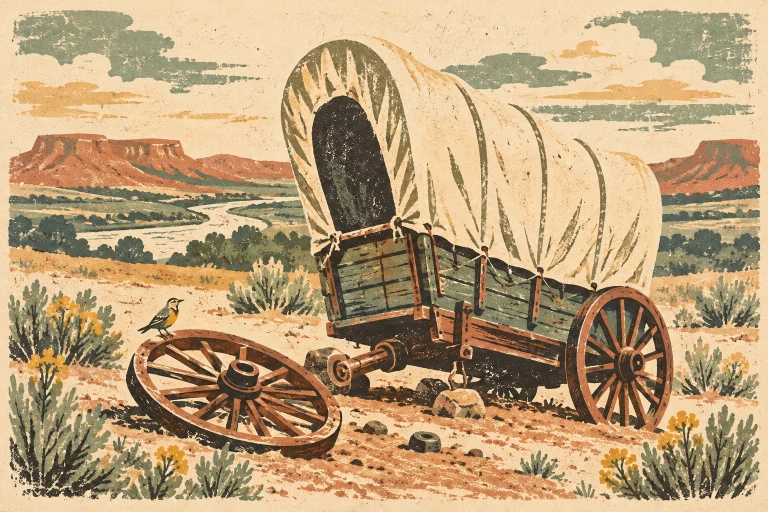
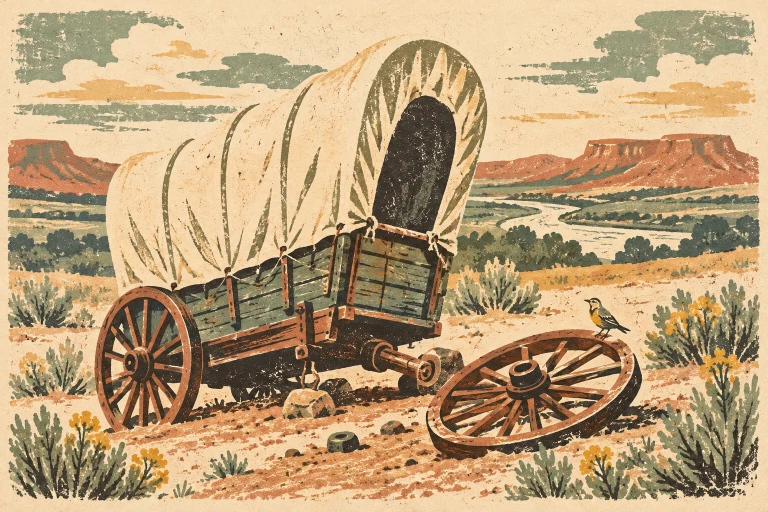
Add distinct journey, calamity, river and memorial artwork

diff --git a/docs/calamity-art-prompts.md b/docs/calamity-art-prompts.md
@@ -1,0 +1,44 @@
+# Calamity result artwork
+
+Generated with built-in imagegen using calamity.webp as a style-only reference. Originals remain in the thread’s generated_images directory; project assets are 900×600 WebP. The six existing wagon calamities keep their specific artwork. All ten personal/event calamities below now have dedicated result artwork, also used in active personal-condition details. The generic broken-wheel image is reserved for unrevealed calamity trail cards.
+
+## assets/calamity-dysentery.webp
+
+Original standalone landscape 3:2 illustration for an Oregon Trail card game. Use reference for STYLE ONLY, not composition. Flat vintage linocut/distressed screenprint on cream paper, muted sage, ochre, terracotta and charcoal olive inks, fine grain and ink dropout. Clear simple focal subject readable as a small thumbnail, soothing restrained palette. No text, letters, frame, watermark, wheel damage or gore. Distinct composition, not a wagon panorama. Any traveller or travelling team faces RIGHT. DYSENTERY: exhausted pioneer crouched in right-facing profile, wrapped in a blanket beside a small rough wooden prairie outhouse with crescent opening. One hand presses their abdomen, a tin water cup sits on the earth. Outhouse fills right half, distressed traveller left foreground. Clearly severe intestinal illness; non-graphic, no bodily fluids.
+
+## assets/calamity-cholera.webp
+
+Original standalone landscape 3:2 illustration for an Oregon Trail card game. Use reference for STYLE ONLY, not composition. Flat vintage linocut/distressed screenprint on cream paper, muted sage, ochre, terracotta and charcoal olive inks, fine grain and ink dropout. Clear simple focal subject readable as a small thumbnail, soothing restrained palette. No text, letters, frame, watermark, wheel damage or gore. Distinct composition, not a wagon panorama. Any traveller or travelling team faces RIGHT. CHOLERA: high close overhead angle on a weak traveller sitting on a bedroll, right-facing silhouette bent over a plain wash basin with a medicine bottle beside it. Their hand grips the basin rim, a water bucket behind. Dry dusty camp. Suggest sudden debilitating sickness without visible vomit or bodily fluids. Basin and exhausted posture dominate.
+
+## assets/calamity-measles.webp
+
+Original standalone landscape 3:2 illustration for an Oregon Trail card game. Use reference for STYLE ONLY, not composition. Flat vintage linocut/distressed screenprint on cream paper, muted sage, ochre, terracotta and charcoal olive inks, fine grain and ink dropout. Clear simple focal subject readable as a small thumbnail, soothing restrained palette. No text, letters, frame, watermark, wheel damage or gore. Distinct composition, not a wagon panorama. Any traveller or travelling team faces RIGHT. MEASLES: close right-facing profile portrait of a sick pioneer wrapped in a sage blanket, faint but clearly visible small terracotta rash spots on cheek, neck and forehead, one hand on feverish forehead. Cream background with minimal tent canvas shape. Face and rash fill frame, no doctor or medicine bottle.
+
+## assets/calamity-typhoid.webp
+
+Original standalone landscape 3:2 illustration for an Oregon Trail card game. Use reference for STYLE ONLY, not composition. Flat vintage linocut/distressed screenprint on cream paper, muted sage, ochre, terracotta and charcoal olive inks, fine grain and ink dropout. Clear simple focal subject readable as a small thumbnail, soothing restrained palette. No text, letters, frame, watermark, wheel damage or gore. Distinct composition, not a wagon panorama. Any traveller or travelling team faces RIGHT. TYPHOID FEVER: overhead diagonal view of a feverish traveller lying on a cot under a thin blanket, eyes closed, cool damp cloth on forehead, companion's hand offering a cup of clean water, small medicine bottle at cot edge. Cot fills composition. Restrained medical camp scene, no rash, wash basin or outhouse.
+
+## assets/calamity-arm.webp
+
+Original standalone landscape 3:2 illustration for an Oregon Trail card game. Use reference for STYLE ONLY, not composition. Flat vintage linocut/distressed screenprint on cream paper, muted sage, ochre, terracotta and charcoal olive inks, fine grain and ink dropout. Clear simple focal subject readable as a small thumbnail, soothing restrained palette. No text, letters, frame, watermark, wheel damage or gore. Distinct composition, not a wagon panorama. Any traveller or travelling team faces RIGHT. BROKEN ARM: tightly cropped torso of a pioneer in right-facing profile with their forearm firmly wrapped in a cloth sling and wooden splint, visible fingers and sling knot at shoulder. A companion carefully secures a bandage. The sling and splint are the central focal point, not a face or wagon.
+
+## assets/calamity-cold.webp
+
+Original standalone landscape 3:2 illustration for an Oregon Trail card game. Use reference for STYLE ONLY, not composition. Flat vintage linocut/distressed screenprint on cream paper, muted sage, ochre, terracotta and charcoal olive inks, fine grain and ink dropout. Clear simple focal subject readable as a small thumbnail, soothing restrained palette. No text, letters, frame, watermark, wheel damage or gore. Distinct composition, not a wagon panorama. Any traveller or travelling team faces RIGHT. EXTREME COLD: tiny prairie camp buried in windblown snow, two blanket-wrapped travellers huddled beside a small struggling campfire, frosted kettle, bare grass under ice. Strong diagonal snow gusts, cold muted teal/sage with warm ochre embers. No wagon, not a generic temperate landscape.
+
+## assets/calamity-starvation.webp
+
+Original standalone landscape 3:2 illustration for an Oregon Trail card game. Use reference for STYLE ONLY, not composition. Flat vintage linocut/distressed screenprint on cream paper, muted sage, ochre, terracotta and charcoal olive inks, fine grain and ink dropout. Clear simple focal subject readable as a small thumbnail, soothing restrained palette. No text, letters, frame, watermark, wheel damage or gore. Distinct composition, not a wagon panorama. Any traveller or travelling team faces RIGHT. STARVATION: intimate overhead still life of an EMPTY wooden food bowl, empty open burlap sack and a wooden spoon on rough camp table, exhausted traveller's thin hands resting beside bowl. No food anywhere. Bowl large and centered, muted dry ochre palette, tender rather than grotesque.
+
+## assets/calamity-thief.webp
+
+Original standalone landscape 3:2 illustration for an Oregon Trail card game. Use reference for STYLE ONLY, not composition. Flat vintage linocut/distressed screenprint on cream paper, muted sage, ochre, terracotta and charcoal olive inks, fine grain and ink dropout. Clear simple focal subject readable as a small thumbnail, soothing restrained palette. No text, letters, frame, watermark, wheel damage or gore. Distinct composition, not a wagon panorama. Any traveller or travelling team faces RIGHT. THEFT: close composition of a shadowy gloved hand secretly lifting a tied supply sack off the rear of an intact wagon at dusk. Sack dominates center, cropped wagon boards, second gloved hand reaching right, sneaking figure silhouette partly outside frame. Clearly stolen belongings, no weapon, no broken wheel.
+
+## assets/calamity-hunting.webp
+
+Original standalone landscape 3:2 illustration for an Oregon Trail card game. Use reference for STYLE ONLY, not composition. Flat vintage linocut/distressed screenprint on cream paper, muted sage, ochre, terracotta and charcoal olive inks, fine grain and ink dropout. Clear simple focal subject readable as a small thumbnail, soothing restrained palette. No text, letters, frame, watermark, wheel damage or gore. Distinct composition, not a wagon panorama. Any traveller or travelling team faces RIGHT. HUNTING: right-facing pioneer crouching on left behind prairie brush, holding an old frontier rifle pointed toward a distant deer on the right. Wide quiet meadow, deer alive and alert, no discharge, blood or carcass. Rifle and sightline lead left to right. A small food sack near hunter for context.
+
+## assets/calamity-snake.webp
+
+Original standalone landscape 3:2 illustration for an Oregon Trail card game. Use reference for STYLE ONLY, not composition. Flat vintage linocut/distressed screenprint on cream paper, muted sage, ochre, terracotta and charcoal olive inks, fine grain and ink dropout. Clear simple focal subject readable as a small thumbnail, soothing restrained palette. No text, letters, frame, watermark, wheel damage or gore. Distinct composition, not a wagon panorama. Any traveller or travelling team faces RIGHT. SNAKEBITE: very close ground-level view of a coiled rattlesnake striking a pioneer's leather boot and ankle on dusty prairie, visible rattle and curved snake body, trousers cropped above ankle. Snake head points RIGHT toward boot. No wound or blood. Snake and boot fill frame, unmistakable bite hazard.
+

diff --git a/docs/wagon-state-prompts.md b/docs/wagon-state-prompts.md
@@ -1,0 +1,31 @@
+# Wagon-state artwork
+
+Remade with built-in imagegen to give each failure a distinct, close-up composition. `assets/calamity.webp` was used as a style reference only and remains the generic unrevealed calamity illustration. Mechanical failures appear in repair panels and active hazards. All six shared calamities have distinct images in the wagon section, and an intact wagon appears when no wagon calamities are active.
+
+## assets/broken-wheel.webp
+
+Use case: illustration-story. Standalone landscape 3:2 raster illustration for an Oregon Trail card game, no text/frame/watermark. Attached image is STYLE reference ONLY; DO NOT copy its composition, wagon pose or scenery. Match flat vintage linocut/distressed screenprint on cream paper, muted sage/ochre/terracotta/charcoal olive inks, fine grain and ink dropout, soothing understated palette. The failure fills most of the frame and must read at thumbnail size. BROKEN WHEEL. Extreme close-up at ground level of ONE wooden wagon wheel with a large missing rim segment and two snapped spokes, jagged pale wood and pieces lying beside it. Wheel dominates foreground at a diagonal, hub and remaining spokes clearly legible. Only a small cropped corner of wagon bed above it, no whole covered wagon, no distant mesas or expansive landscape. A patch of dusty grass behind. Clear broken wheel, not a detached intact wheel.
+
+## assets/broken-axle.webp
+
+Use case: illustration-story. Standalone landscape 3:2 raster illustration for an Oregon Trail card game, no text/frame/watermark. Attached image is STYLE reference ONLY; DO NOT copy its composition, wagon pose or scenery. Match flat vintage linocut/distressed screenprint on cream paper, muted sage/ochre/terracotta/charcoal olive inks, fine grain and ink dropout, soothing understated palette. The failure fills most of the frame and must read at thumbnail size. BROKEN AXLE. Low view looking straight underneath a wagon from the rear, cropped tightly: two intact rear wheels at extreme left and right edges, and the CROSSWISE wooden axle running between their hubs, broken cleanly into two sagging halves in the CENTER with a visible gap and splintered wood. Shadowed wagon underside fills upper third, dirt under the broken beam fills lower third. No canvas cover, no entire wagon, no long hitch tongue, no landscape vista. The broken transverse beam is the focal subject.
+
+## assets/broken-tongue.webp
+
+Use case: illustration-story. Standalone landscape 3:2 raster illustration for an Oregon Trail card game, no text/frame/watermark. Attached image is STYLE reference ONLY; DO NOT copy its composition, wagon pose or scenery. Match flat vintage linocut/distressed screenprint on cream paper, muted sage/ochre/terracotta/charcoal olive inks, fine grain and ink dropout, soothing understated palette. The failure fills most of the frame and must read at thumbnail size. BROKEN WAGON TONGUE. Overhead diagonal close-up of the long wooden hitch tongue lying across dusty ground, running from cropped front wagon coupling in upper-right to detached forward tip in lower-left. Beam snapped in its middle, both jagged pale fracture ends facing each other across a clear gap; metal hitch ring at the tip, simple yoke rope nearby for context. Only tiny cropped front wheel edge visible at upper-right, absolutely no whole wagon, canvas cover or landscape vista. Focus entirely on snapped longitudinal hitch beam.
+
+## assets/dead-oxen.webp
+
+Use case: illustration-story. Standalone landscape 3:2 raster illustration for an Oregon Trail card game, no text/frame/watermark. Attached image is STYLE reference ONLY; DO NOT copy its composition, wagon pose or scenery. Match flat vintage linocut/distressed screenprint on cream paper, muted sage/ochre/terracotta/charcoal olive inks, fine grain and ink dropout, soothing understated palette. The failure fills most of the frame and must read at thumbnail size. DEAD OXEN. Close quiet composition of two motionless oxen lying on their sides in prairie grass, heads nearest viewer, eyes closed, strong recognizable horns, bodies partly overlapping and filling almost the whole frame. A wooden yoke lies between their heads, an empty trail recedes in a tiny upper corner. NO wagon anywhere, no mesas or panorama. Clearly fallen and motionless rather than alert resting animals. Restrained tender vintage board-game art, no wounds, blood, gore, vultures or visible suffering.
+
+## Additional wagon states
+
+Generated with built-in imagegen using calamity.webp as a style-only reference: landscape 3:2, flat distressed vintage linocut screenprint on cream paper, sage/ochre/terracotta/charcoal olive inks, grain and ink dropout, no text or frame. Each source is preserved in the thread’s generated_images directory and exported to a 900×600 WebP.
+
+- `assets/unsafe-water.webp`: overhead close-up of stagnant olive water, surface scum and a tipped wooden bucket on the muddy shore; no wagon or panorama.
+- `assets/inadequate-grass.webp`: living ox lowering its head towards sparse brittle stalks on cracked parched grazing ground; no wagon or water.
+- `assets/healthy-wagon.webp`: intact covered wagon and two healthy yoked oxen on a grassy trail, three-quarter front view.
+
+## Travel direction
+
+Trail artwork is oriented left-to-right. The finished broken-tongue, calamity, dead-oxen, healthy-wagon, river-drowning, river-ford, river-moderate and river-raging images were mirrored horizontally after generation. Portraits and scenery without a directional traveller were retained. Future travelling wagon/team scenes should face right.

diff --git a/docs/river-art-prompts.md b/docs/river-art-prompts.md
@@ -1,0 +1,14 @@
+# River artwork
+
+Generated using built-in imagegen, with river-ford.webp as a style-only reference: flat distressed vintage linocut screenprint on cream paper, muted sage/ochre/terracotta/charcoal olive inks, heavy grain and ink dropout. Landscape 3:2, no text or frame. Exports are 900×600 WebP; original generated files remain in the thread’s generated_images directory.
+
+- river-success.webp: intact wagon and oxen climbing onto dry grass on the far bank, river behind them; safe arrival.
+- river-supply-loss.webp: overhead close-up of a crate, food sack, canteen and cloth swept away by rushing water; cropped wagon wheel on shore.
+- river-drowning.webp: floating traveller’s hat and a sinking hand in swirling water, concerned companion and wagon on the distant shore; restrained and non-graphic.
+
+The original river-ford.webp remains the unresolved crossing scene. River cards show a moderate crossing for supply-loss risk or a raging river for drowning risk and a “Risk” consequence tag. Result scenes distinguish success, supply loss and drowning; rolls of 3/5 retain the unresolved crossing artwork.
+
+- river-moderate.webp: wagon and oxen fording a substantial flowing river, visible current and whitecaps, all travellers and supplies secure.
+- river-raging.webp: deep swollen river and churning rapids dominate the scene; wagon and team wait safely on the rocky bank.
+
+Crossing previews never show a failure before it happens. The existing gentle river-ford.webp illustrates harmless failed attempts; failure scenes are reserved for actual dice results and the ensuing supply-loss action.

diff --git a/docs/additional-art-prompts.md b/docs/additional-art-prompts.md
@@ -22,3 +22,11 @@ Use case: illustration-story. Original raster illustration for a minimal Oregon 
 
 Use case: illustration-story. Original raster illustration for a minimal Oregon Trail card game. Flat vintage 1940s travel poster, hand-cut linocut, distressed screen printing on cream paper. Soothing sage green, faded teal, ochre, dusty terracotta and charcoal olive inks, fine grain, ink dropout and worn edges. No gradients, glossy rendering, typography, borders or watermark. Landscape 3:2. One small worn gravestone beneath prairie wildflowers, a tiny bird resting nearby, quiet rolling sage hills. Restrained, tender and whimsical without mockery. No inscription, skulls or bones. For a game farewell/epitaph panel.
 
+
+## assets/independence.webp
+
+Generated with built-in imagegen: 3:2 Independence starting-point scene, frontier courthouse and town square, packed wagon and yoked oxen departing to the right onto a prairie road. Muted distressed linocut/screenprint style, cream paper, no lettering; town.webp used as a style-only reference. Exported to 900×600 WebP. Displayed as the graphical trailhead with live START badge and Independence/Missouri caption.
+
+## assets/progress-wagon.webp
+
+Built-in imagegen: isolated right-facing side-view covered wagon, cream canopy, sage wooden bed, olive wheels and projecting tow tongue; simplified distressed linocut icon on a transparent background, no oxen or scenery. Independence illustration used as style reference. Exported at 160px wide and displayed as a 40px marker attached to the progress fill endpoint.

diff --git a/docs/tombstone-art-prompts.md b/docs/tombstone-art-prompts.md
@@ -1,0 +1,8 @@
+# Tombstone templates
+
+Generated with built-in imagegen with transparent backgrounds. Originals remain in the thread’s generated_images directory.
+
+- `assets/tombstone-full.webp` (600×800): front-facing rounded arched gravestone with chipped edge and broad base; distressed vintage linocut on pale warm-gray stone, charcoal olive outline, cream highlights. Blank central face with subtle grain, no lettering or ornaments. R.I.P., player name, and editable epitaph remain live text over the template. Calamity artwork supplied as a style-only reference.
+- `assets/tombstone-icon.webp` (128×128): simplified matching stone referenced from the full-size template, chunky outline and minimal detail for 28–44px display, one bold cross, no text or scenery. Used wherever a dead player replaces their portrait.
+
+The assets preserve transparency; the UI adds no opacity fade to deceased players.
